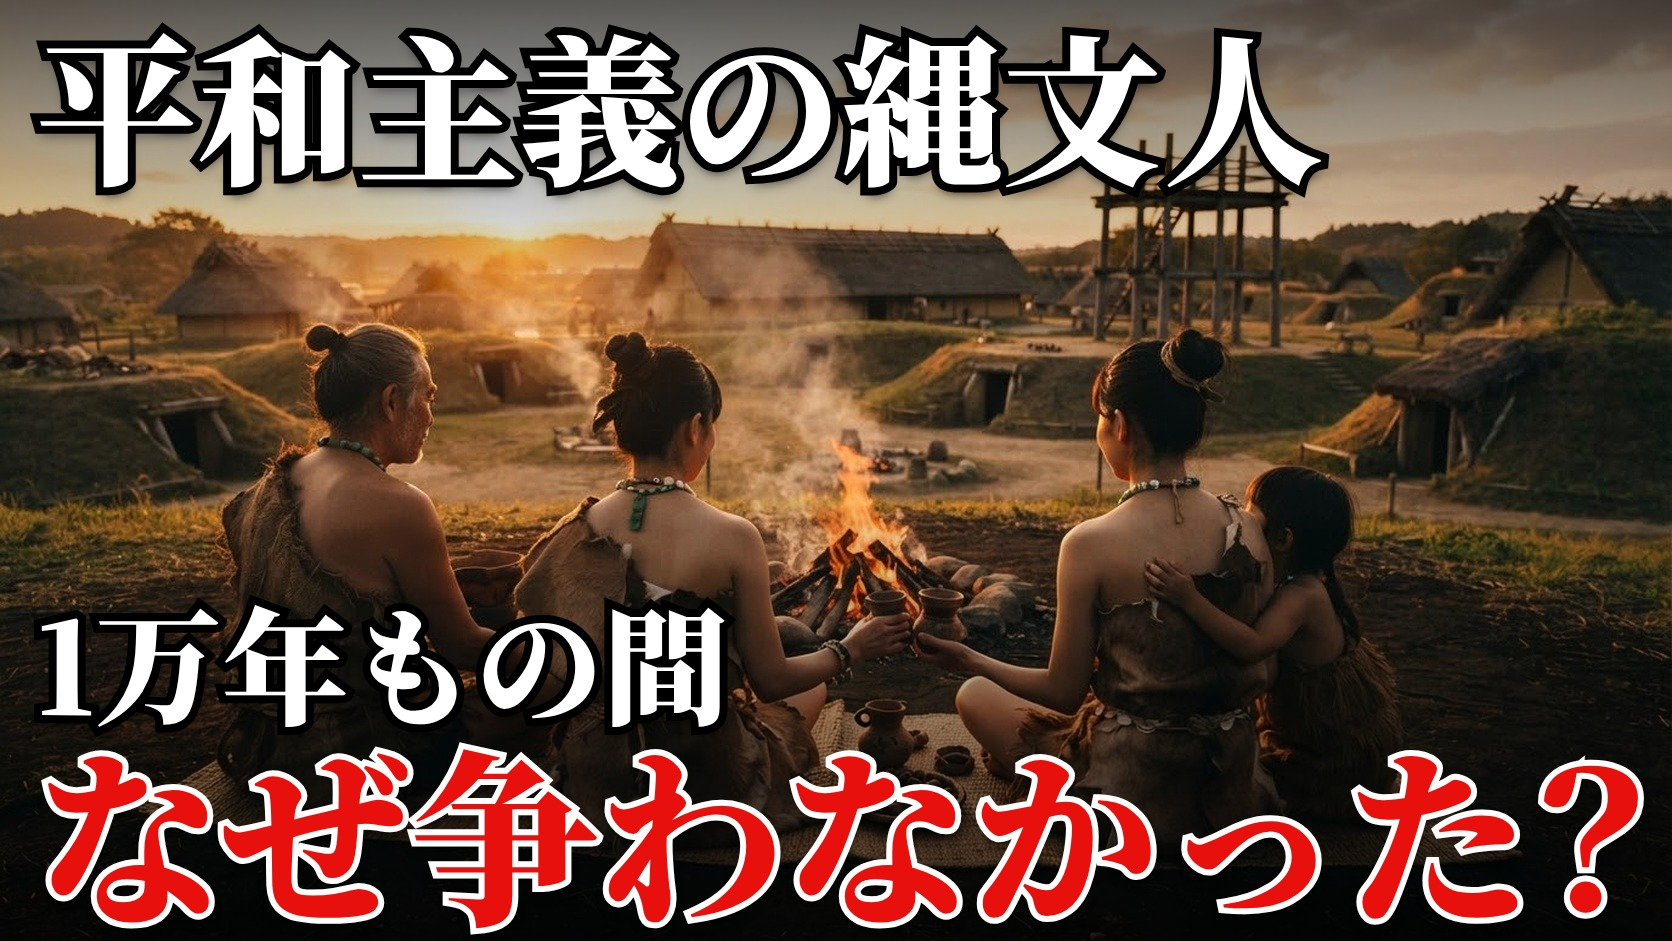
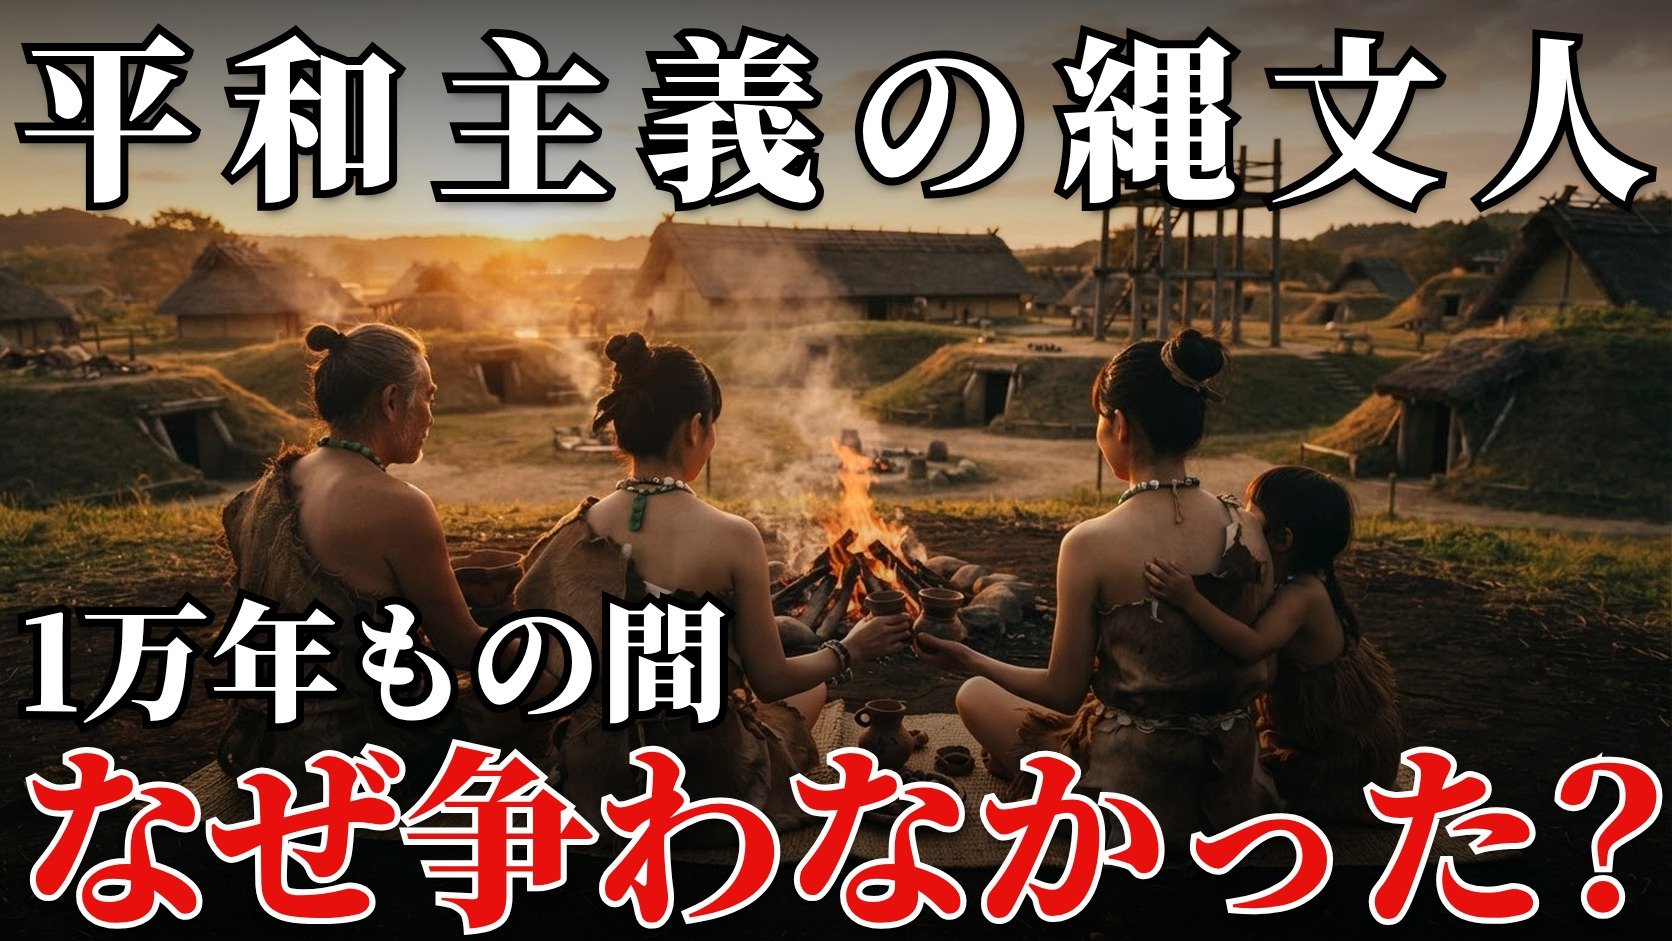
縄文人: サムネの文字を左右の余白なしで配置
Claude-Session: https://claude.ai/code/session_01BYpZQXYNUwHTnyuBiz7NfV

Changed region(s): [[0.0, 0.6164, 0.9952, 1.0], [0.0, 0.0308, 0.9952, 0.2465]]

diff --git a/habi-jomon/サムネ/jgen.py b/habi-jomon/サムネ/jgen.py
@@ -1,4 +1,4 @@
-# 縄文サムネ：左寄せ。下段を左右いっぱい、上段は下段の0.86倍、中段は0.68倍。上下の余白は詰める
+# 縄文サムネ：左右の余白なし（端から20px）。下段は左右いっぱい、上段は下段の0.92倍で字間を広げて左右いっぱい、中段は0.68倍で左寄せ。上下の余白は詰める
 HEAD='''<html><head><style>
 @font-face{font-family:N;src:url(NotoSerifJP-Black.ttf)}
 @font-face{font-family:G;src:url(NotoSansJP-Black.ttf)}
@@ -6,39 +6,40 @@ body{margin:0;width:1672px;height:941px;position:relative;overflow:hidden;backgr
 .bg{position:absolute;inset:0;background:url(BG) center/cover}
 .top{position:absolute;left:0;right:0;top:0;height:300px;background:linear-gradient(rgba(0,0,0,.65),rgba(0,0,0,0))}
 .bot{position:absolute;left:0;right:0;bottom:0;height:440px;background:linear-gradient(rgba(0,0,0,0),rgba(0,0,0,.72))}
-.L{position:absolute;left:36px;width:1600px;text-align:left;white-space:nowrap;line-height:1;font-family:N}
+.L{position:absolute;left:20px;width:1632px;text-align:left;white-space:nowrap;line-height:1;font-family:N}
 .L span.x{position:relative}
 .b{color:#000;-webkit-text-stroke:16px #000;text-shadow:0 8px 12px rgba(0,0,0,.8)}
 .w{color:#fff}.r{color:#e8100c}
 .rb{color:#fff;-webkit-text-stroke:12px #fff;text-shadow:0 8px 12px rgba(0,0,0,.9),0 0 3px #000}
 .q{margin-left:-.18em;margin-right:-.3em}
 .band{position:absolute;left:0;right:0;height:190px;background:linear-gradient(#e0120e,#a8070a);box-shadow:0 8px 18px rgba(0,0,0,.6);border-top:5px solid #fff;border-bottom:5px solid #fff}
-.news{position:absolute;left:0;width:1672px;white-space:nowrap;line-height:1;font-family:G;font-weight:900;display:flex;justify-content:flex-start;align-items:center;padding-left:36px}
+.news{position:absolute;left:0;width:1672px;white-space:nowrap;line-height:1;font-family:G;font-weight:900;display:flex;justify-content:flex-start;align-items:center;padding-left:20px}
 .tag{background:#fff;color:#d30c0a;padding:.1em .22em;margin-right:.3em}
 .gw{color:#fff;text-shadow:0 5px 8px rgba(0,0,0,.55)}
 </style></head><body><div class=bg></div><div class=top></div><div class=bot></div>
 '''
 FIT='''<script>
-const M=36, W=1672-2*M, MAXLS=0.14;
+const M=20, W=1672-2*M, MAXLS=0.14;
 function size(el,px){el.querySelectorAll('.L').forEach(e=>e.style.fontSize=px+'px')}
 function width(el){return el.querySelector('.L:last-child').scrollWidth||0}
 function natural(g,px){size(g,px);g.querySelectorAll('.L').forEach(e=>e.style.letterSpacing='0');const s=g.querySelector('.L:last-child span.x');return s.getBoundingClientRect().width}
+function px0(g){const w=natural(g,100);return 100*W/w}
 function fill(g,px){ // 字間を広げて左右いっぱいに。広がりすぎるなら中央
   const w=natural(g,px), n=g.dataset.n, ls=(W-w)/(n-1)/px;
-  if(false) g.querySelectorAll('.L').forEach(e=>e.style.letterSpacing=ls+'em');
+  if(ls>0) g.querySelectorAll('.L').forEach(e=>e.style.letterSpacing=ls+'em');
 }
 document.fonts.ready.then(()=>{
   const bot=document.getElementById('bot'), w0=natural(bot,100), B=Math.floor(100*W/w0); natural(bot,B);
   bot.querySelectorAll('.L').forEach(e=>e.style.top=(941-18-B)+'px');
   const top=document.getElementById('top');
-  if(top){const T=Math.round(B*0.86); fill(top,T); top.querySelectorAll('.L').forEach(e=>e.style.top='22px');}
+  if(top){const T=Math.min(Math.round(B*0.92),Math.floor(px0(top))); fill(top,T); top.querySelectorAll('.L').forEach(e=>e.style.top='22px');}
   const mid=document.getElementById('mid');
   if(mid){const P=Math.round(B*0.68); natural(mid,P); mid.querySelectorAll('.L').forEach(e=>e.style.top=(941-18-B-12-P)+'px');}
   const nw=document.getElementById('news');
   if(nw){ // 速報帯：下段より少し小さく、帯いっぱい
-    let px=Math.round(B*0.86); nw.style.fontSize=px+'px';
+    let px=Math.round(B*0.92); nw.style.fontSize=px+'px';
     const r=nw.scrollWidth; const inner=[...nw.children].reduce((a,c)=>a+c.getBoundingClientRect().width,0)+0.3*px;
-    const ls=(W-inner)/(nw.dataset.n-1)/px; if(false) nw.querySelector('.gw').style.letterSpacing=ls+'em';
+    const ls=(W-inner)/(nw.dataset.n-1)/px; if(ls>0) nw.querySelector('.gw').style.letterSpacing=Math.min(ls,0.12)+'em';
     document.querySelector('.band').style.top='14px'; nw.style.top=(14+5+(180-px*1.2)/2)+'px'; nw.style.height=(px*1.2)+'px';
   }
   document.body.dataset.done=1;

diff --git a/habi-jomon/サムネ案.md b/habi-jomon/サムネ案.md
@@ -62,3 +62,4 @@
 - 2026-11-28 更新：背景を Gemini の画像に差し替え（本人の希望）。写真版は サムネ/写真版-*.jpg に残す。①③は生成画像の上部に継ぎ目があったので、明るさを合わせてぼかして消した。概要欄のサムネのクレジットは「画像生成AI（Google Gemini）で制作」
 - 2026-11-28 文字組み変更（本人の希望）：下段（赤）を左右いっぱいに広げ、上段は下段の0.86倍。上段は字間を広げて左右いっぱいにし、広げすぎになる（字間0.14em超）ときは中央揃え。中段は下段の0.68倍で中央。→ ①上段は左右いっぱい、②上段・③速報帯は中央
 - 2026-11-28 再変更（本人の希望）：文字はすべて左寄せ（左端36px）。上下の余白を詰める（上段は上から22px、下段は下から18px、中段と下段の間12px、速報帯は上から14px）。大きさの比（上0.86・中0.68・下=左右いっぱい）は同じ
+- 2026-11-28 再変更（本人の参考画像）：左右の余白をなくす（端から20px）。下段は左右いっぱい、上段は下段の0.92倍で字間を広げて左右いっぱい。速報帯の文字は下段の0.92倍（字間は0.12emまで）。中段は0.68倍で左寄せ
